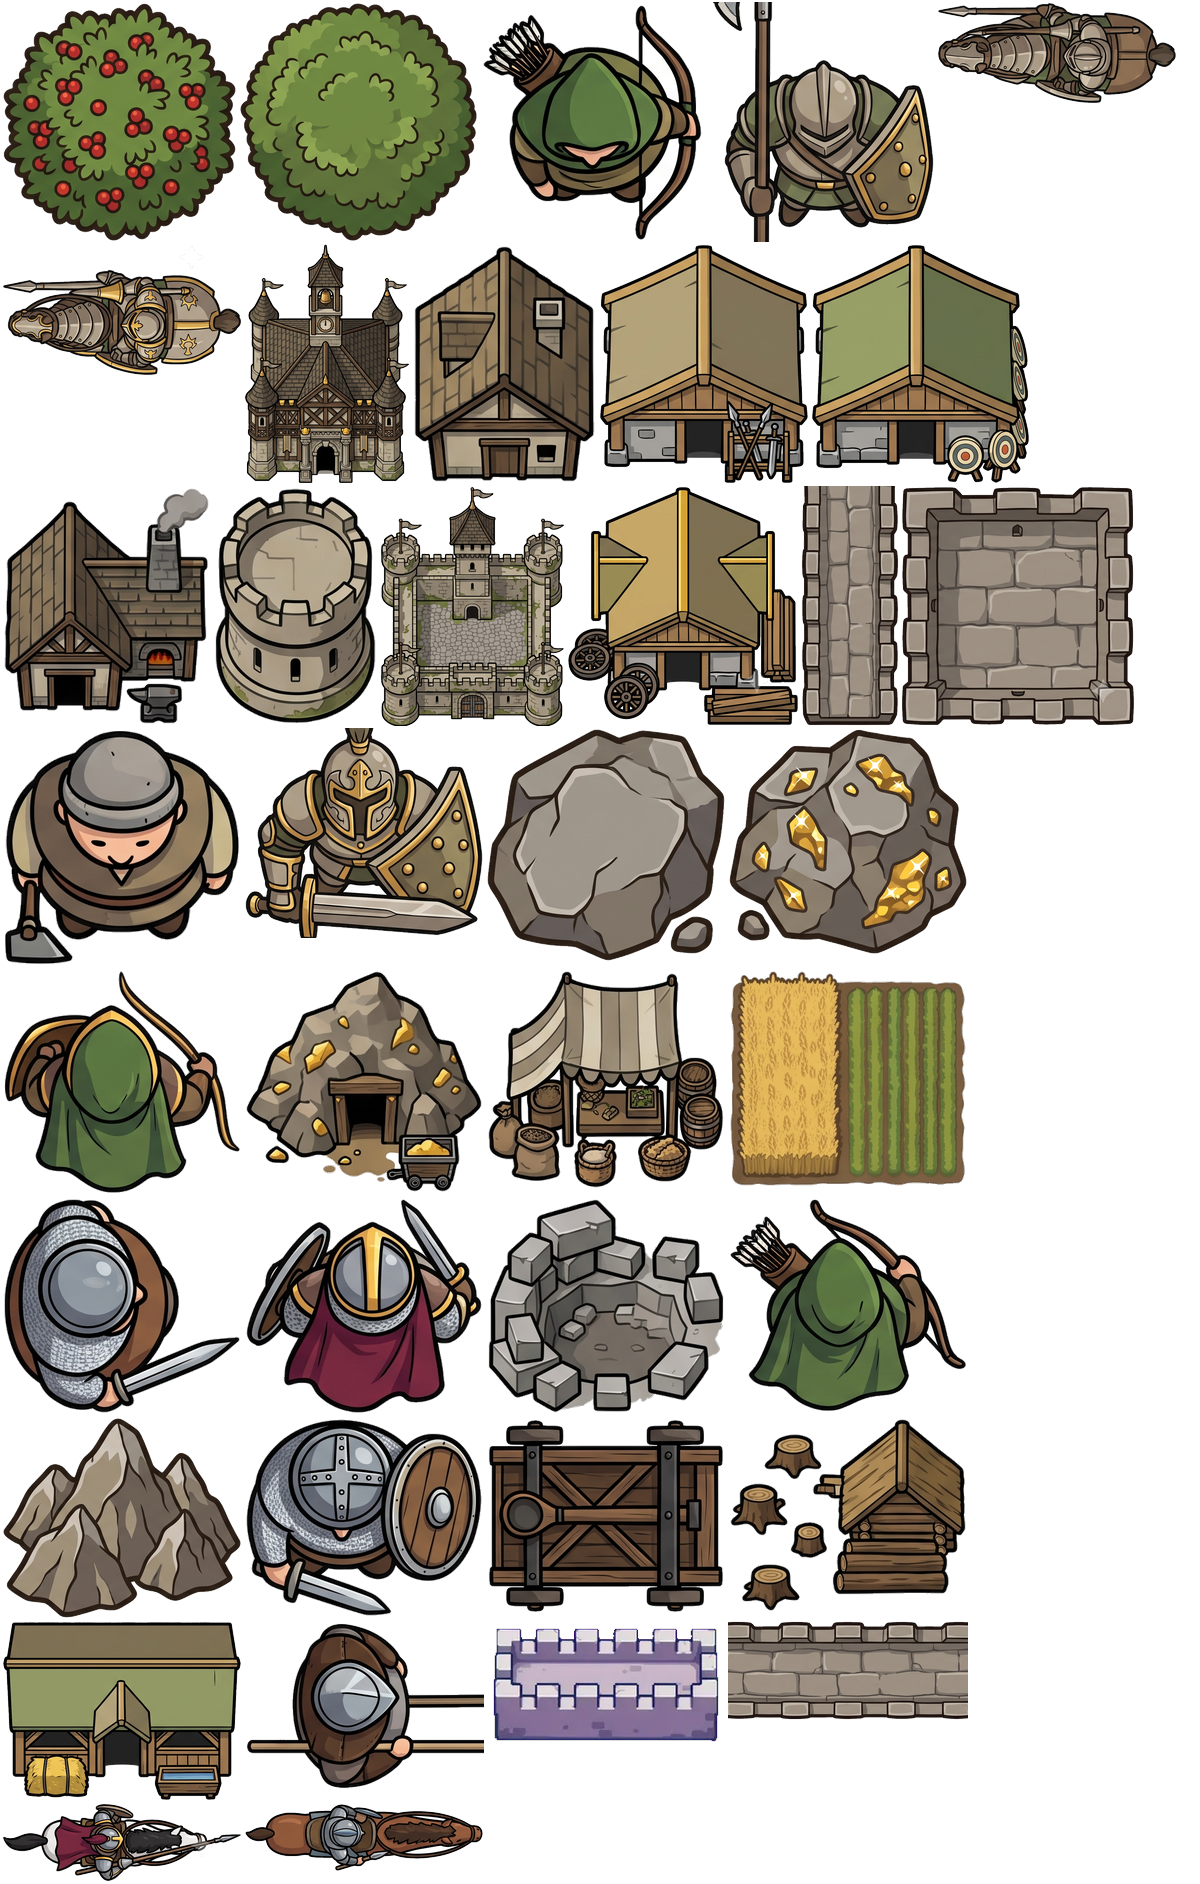
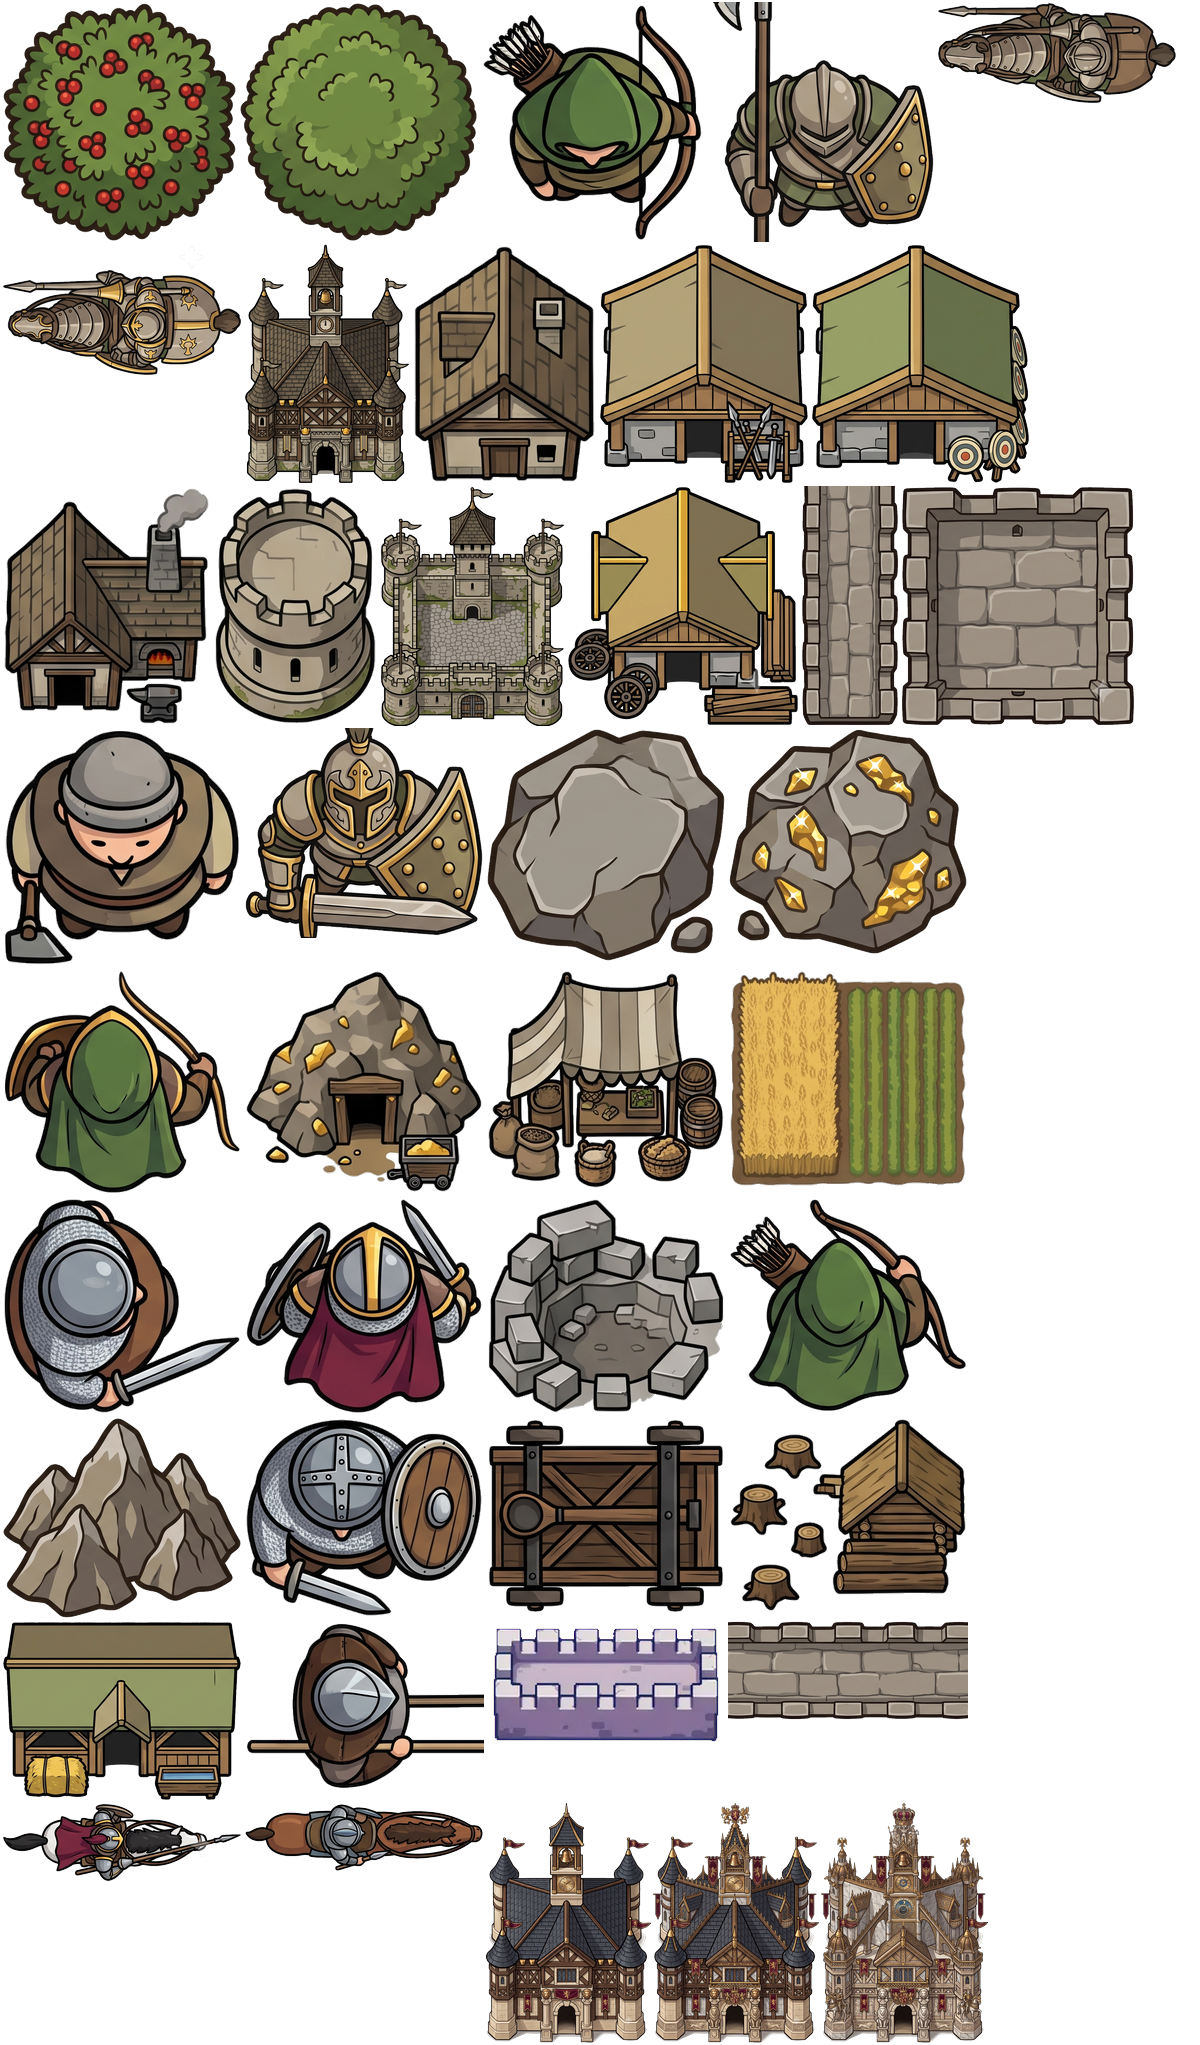
Gráficas del Centro Urbano por Era y correcciones al tutorial simulado
- El Centro Urbano cambia de gráfica según la Era del bando dueño (arte
  donado por el usuario, recortado con transparencia real y optimizado).
- Tutorial: la deselección ya no simula un toque en el mapa (mueve a la
  unidad de verdad) sino el gesto real de 2 dedos sin mover.
- Tutorial: subir de Era y mejorar unidad muestran el panel de acciones
  real con su botón, en vez de solo un toque sobre el edificio.
- Tutorial: 2 pasos nuevos (doble toque = mismo tipo, arrastre = caja de
  selección), 12 pasos en total.

diff --git a/index.html b/index.html
@@ -1095,7 +1095,8 @@ const SPRITE_FILES = [
   // solo al de tipo base, nunca a un 404 (comprobado con spr() antes de usar).
   'unit_infantry_t1','unit_infantry_t2','unit_pike_t1','unit_archer_t1',
   'unit_cavalry_t1','unit_cavalry_t2',
-  'bld_town','bld_house','bld_barracks','bld_range','bld_stable','bld_blacksmith',
+  'bld_town','bld_town_age2','bld_town_age3','bld_town_age4',
+  'bld_house','bld_barracks','bld_range','bld_stable','bld_blacksmith',
   'bld_tower','bld_castle','bld_farm','bld_goldmine','bld_quarry','bld_lumbercamp',
   'bld_market','bld_siegeworkshop',
   'bld_wall','bld_wall_h','bld_wall_v','bld_wall_tower',
@@ -4454,12 +4455,22 @@ function drawDamageFx(e, cx, cy, sz){
   }
 }
 
+// El Centro Urbano cambia de gráfica según la Era del bando dueño (arte
+// donado por el usuario): Era Inicial usa el sprite de siempre, Eras II-IV
+// tienen ficha propia. Si por lo que sea faltara el sprite de una era
+// concreta, `spr()`/`drawSprite` no lo encontrarían y caerían solos al
+// respaldo normal (rect+emoji) — no hace falta contemplarlo aquí.
+function townSpriteName(owner){
+  const age = owner==='player' ? player.age : enemy.age;
+  return age>=2 ? ('bld_town_age'+age) : 'bld_town';
+}
 function drawBuilding(e){
   if(!onScreen(e)) return;
   const s=worldToScreen(e.x,e.y); const d=BLD[e.btype];
   const sz=d.size*cam.zoom;
   const sel = e.owner==='player' && selection.includes(e.id);
-  const img = spr(d.gate ? 'bld_wall' : ('bld_'+e.btype));
+  const spriteName = d.gate ? 'bld_wall' : (e.btype==='town' ? townSpriteName(e.owner) : ('bld_'+e.btype));
+  const img = spr(spriteName);
   // FASE 9 — vista de tablero: ficha PLANA anclada en su CENTRO (cámara cenital
   // estricta), no el anclaje "abajo + estirado ×1.7" de antes (simulaba un
   // edificio visto en ¾). `box` es el tamaño visual cuadrado de la ficha;
@@ -4488,7 +4499,7 @@ function drawBuilding(e){
         roundRect(s.x-markW/2, my-markH/2, markW, markH, 3*cam.zoom); ctx.fill(); ctx.stroke();
       }
     } else {
-      drawSprite('bld_'+e.btype, s.x, s.y, box, false);
+      drawSprite(spriteName, s.x, s.y, box, false);
     }
   } else {
     // respaldo: rect + emoji. El Taller de Asedio (sin sprite propio) usa una
@@ -6029,6 +6040,22 @@ function tpBar(x,y,w,frac,color){
   ctx.fillStyle='#000a'; ctx.fillRect(x,y,w,5);
   ctx.fillStyle=color; ctx.fillRect(x,y,w*Math.max(0,Math.min(1,frac)),5);
 }
+// Panel de acciones simulado (para los pasos "subir de Era"/"mejorar unidad":
+// feedback de juego real, "no se entiende porque no se ve el menú" — sin
+// esto solo se veía el toque sobre el edificio, no dónde se pulsa de verdad).
+function tpDrawPanel(y,h){
+  ctx.fillStyle='rgba(10,11,14,.93)'; ctx.fillRect(0,y,TP_W,h);
+  ctx.strokeStyle='rgba(255,255,255,.1)'; ctx.lineWidth=1;
+  ctx.beginPath(); ctx.moveTo(0,y); ctx.lineTo(TP_W,y); ctx.stroke();
+}
+function tpDrawButton(x,y,w,h,label,active){
+  ctx.fillStyle = active ? 'rgba(255,224,140,.9)' : 'rgba(255,255,255,.12)';
+  ctx.strokeStyle = 'rgba(255,255,255,.35)'; ctx.lineWidth=1.2;
+  roundRect(x,y,w,h,6); ctx.fill(); ctx.stroke();
+  ctx.font='11px sans-serif'; ctx.fillStyle = active ? '#241b06' : '#e8e8ec';
+  ctx.textAlign='center'; ctx.textBaseline='middle';
+  ctx.fillText(label, x+w/2, y+h/2);
+}
 function tpLerpPath(kf,t){
   if(t<=kf[0].t) return {x:kf[0].x,y:kf[0].y};
   for(let i=1;i<kf.length;i++){ if(t<=kf[i].t){ const a=kf[i-1],b=kf[i],f=(t-a.t)/((b.t-a.t)||1); return {x:a.x+(b.x-a.x)*f, y:a.y+(b.y-a.y)*f}; } }
@@ -6058,28 +6085,61 @@ const TP_STEPS = [
   { text:'Toca un aldeano para seleccionarlo.', dur:2.2,
     actors:[{sprite:'unit_villager', emoji:'👷', x:120,y:110, h:34, selFrom:0.6}],
     taps:[{t:0.5,x:120,y:110}] },
+  { text:'Doble toque sobre una unidad: selecciona todas las del mismo tipo visibles en pantalla.', dur:2.6,
+    actors:[
+      {sprite:'unit_infantry', emoji:'⚔️', x:90,y:80, h:26, selFrom:0.9},
+      {sprite:'unit_infantry', emoji:'⚔️', x:172,y:126, h:26, selFrom:0.9},
+      {sprite:'unit_infantry', emoji:'⚔️', x:250,y:76, h:26, selFrom:0.9},
+      {sprite:'unit_villager', emoji:'👷', x:250,y:150, h:24},
+    ],
+    taps:[{t:0.45,x:90,y:80},{t:0.7,x:90,y:80}] },
+  { text:'Arrastra con un dedo sobre el mapa: caja de selección para varias unidades a la vez.', dur:2.6,
+    actors:[
+      {sprite:'unit_infantry', emoji:'⚔️', x:110,y:75, h:26, selFrom:1.35},
+      {sprite:'unit_infantry', emoji:'⚔️', x:175,y:110, h:26, selFrom:1.35},
+      {sprite:'unit_pike', emoji:'🔱', x:130,y:145, h:26, selFrom:1.35},
+      {sprite:'unit_villager', emoji:'👷', x:280,y:55, h:24},
+    ],
+    fx(t){
+      if(t>=0.5 && t<1.3){
+        const f=(t-0.5)/0.8, x1=80+140*f, y1=50+115*f;
+        ctx.setLineDash([4,3]); ctx.strokeStyle='rgba(255,255,255,.85)'; ctx.lineWidth=1.5;
+        ctx.strokeRect(80,50,x1-80,y1-50); ctx.setLineDash([]);
+        ctx.beginPath(); ctx.arc(x1,y1,6,0,Math.PI*2); ctx.fillStyle='rgba(255,255,255,.85)'; ctx.fill();
+      } else if(t>=1.3 && t<1.9){
+        ctx.setLineDash([4,3]); ctx.strokeStyle='rgba(255,224,140,.9)'; ctx.lineWidth=1.5;
+        ctx.strokeRect(80,50,140,115); ctx.setLineDash([]);
+      }
+    } },
   { text:'Con la unidad seleccionada, toca un recurso para que vaya a recolectarlo.', dur:2.8,
     props:[{sprite:'res_wood', emoji:'🌳', x:262,y:66, h:30}],
     actors:[{sprite:'unit_villager', emoji:'👷', h:30, selFrom:0,
       path:[{t:0,x:100,y:135},{t:0.6,x:100,y:135},{t:2.6,x:247,y:82}]}],
     taps:[{t:0.6,x:262,y:66}] },
-  { text:'Toca un lugar vacío del mapa para deseleccionar.', dur:2.0,
+  // Deseleccionar: NO es un toque en el mapa (eso MUEVE a la unidad
+  // seleccionada) — el gesto real es tocar con DOS dedos a la vez sin mover
+  // (feedback de juego real, "se movían al lugar del clic").
+  { text:'Toca la pantalla con DOS dedos a la vez, sin mover, para deseleccionar todo.', dur:2.2,
     actors:[{sprite:'unit_infantry', emoji:'⚔️', x:150,y:110, h:30, selFrom:0, selTo:0.9}],
-    taps:[{t:0.9,x:255,y:155}] },
+    fx(t){ if(t>=0.65 && t<1.15) tpTwoFingerDrag(190,150,22); } },
   { text:'Toca tu Centro Urbano y entrena una unidad nueva desde su cola.', dur:2.8,
     props:[{sprite:'bld_town', emoji:'🏛️', x:95,y:112, h:70}],
     actors:[{sprite:'unit_villager', emoji:'👷', x:155,y:145, h:26, showAt:1.9}],
     taps:[{t:0.5,x:95,y:112}],
     fx(t){ if(t>=0.6 && t<1.9) tpBar(60,152,60,(t-0.6)/1.3,'#caa46a'); } },
-  { text:'Toca el Centro Urbano y avanza a la siguiente Era.', dur:3.0,
-    props:[{sprite:'bld_town', emoji:'🏛️', x:170,y:108, h:76}],
-    taps:[{t:0.6,x:170,y:108}],
+  // Subir de Era: antes solo se veía un toque sobre el edificio, sin panel,
+  // "no se entiende porque no se ve el menú" (feedback de juego real). Ahora
+  // simula el panel de acciones apareciendo y el segundo toque sobre su
+  // botón real, y de paso muestra el Centro Urbano cambiando de gráfica al
+  // avanzar de Era (mismo arte que usa el juego de verdad).
+  { text:'Toca tu Centro Urbano: se abre su panel de acciones. Pulsa "Avanzar de Era" para subir a la siguiente Era.', dur:3.4,
+    taps:[{t:0.5,x:170,y:90},{t:1.6,x:170,y:164}],
     fx(t){
-      if(t>=0.7){ const a=Math.min(1,(t-0.7)/1.0);
-        ctx.beginPath(); ctx.arc(170,86,24+a*30,0,Math.PI*2);
+      tpSprite(t<1.7?'bld_town':'bld_town_age2', 170,90,72,'🏛️');
+      if(t>=0.6){ tpDrawPanel(138,52); tpDrawButton(115,150,110,28,'⚒️ Avanzar de Era', t>=1.55 && t<2.0); }
+      if(t>=1.7){ const a=Math.min(1,(t-1.7)/0.9);
+        ctx.beginPath(); ctx.arc(170,70,20+a*28,0,Math.PI*2);
         ctx.strokeStyle=`rgba(255,214,110,${0.7*(1-a)})`; ctx.lineWidth=3; ctx.stroke(); }
-      ctx.font='12px sans-serif'; ctx.textAlign='center'; ctx.fillStyle='#ffe9b0';
-      ctx.fillText(t<1.4 ? 'Edad Inicial' : 'Edad de las Herramientas ⬆️', 170, 172);
     } },
   { text:'Con una unidad militar seleccionada, toca al enemigo para atacarlo.', dur:2.6,
     actors:[
@@ -6096,11 +6156,16 @@ const TP_STEPS = [
       for(const [x,y,e] of [[60,55,'🌲'],[260,45,'🪨'],[150,150,'🏠'],[40,140,'💰'],[300,150,'🌳']]) ctx.fillText(e, x+shift, y);
       tpTwoFingerDrag(TP_W/2 + shift*0.25, 100, 26);
     } },
-  { text:'Investiga una mejora en el edificio de entrenamiento para potenciar tu unidad.', dur:2.8,
-    props:[{sprite:'bld_barracks', emoji:'🛡️', x:75,y:112, h:56}],
-    actors:[{sprite:'unit_infantry', emoji:'⚔️', x:195,y:122, h:30, switchAt:1.6, spriteAfter:'unit_infantry_t1'}],
-    taps:[{t:0.6,x:75,y:112}],
-    fx(t){ if(t>=1.5 && t<2.1){ const a=(t-1.5)/0.6; ctx.beginPath(); ctx.arc(195,122,14+a*18,0,Math.PI*2); ctx.strokeStyle=`rgba(255,214,110,${0.8*(1-a)})`; ctx.lineWidth=3; ctx.stroke(); } } },
+  // Mejorar unidad: mismo problema que subir de Era ("no se entiende, no se
+  // ve el menú") — se simula el panel del Cuartel con el botón de la mejora.
+  { text:'Toca tu Cuartel: se abre su panel. Pulsa la mejora para investigarla y potenciar esa unidad ya entrenada.', dur:3.2,
+    props:[{sprite:'bld_barracks', emoji:'🛡️', x:75,y:80, h:52}],
+    actors:[{sprite:'unit_infantry', emoji:'⚔️', x:230,y:130, h:30, switchAt:2.1, spriteAfter:'unit_infantry_t1'}],
+    taps:[{t:0.5,x:75,y:80},{t:1.6,x:75,y:150}],
+    fx(t){
+      if(t>=0.6){ tpDrawPanel(128,52); tpDrawButton(30,140,100,28,'⚔️ Mejorar', t>=1.55 && t<2.1); }
+      if(t>=2.1 && t<2.7){ const a=(t-2.1)/0.6; ctx.beginPath(); ctx.arc(230,130,14+a*18,0,Math.PI*2); ctx.strokeStyle=`rgba(255,214,110,${0.8*(1-a)})`; ctx.lineWidth=3; ctx.stroke(); }
+    } },
   { text:'Con tropas seleccionadas, toca un edificio enemigo para atacarlo.', dur:2.8,
     props:[{sprite:'bld_house', emoji:'🏠', x:252,y:110, h:46, team:'enemy'}],
     actors:[{sprite:'unit_infantry', emoji:'⚔️', h:28, selFrom:0,
@@ -6125,7 +6190,7 @@ function tpLoop(now){
 }
 function renderTutPreview(){
   const step = TP_STEPS[tpIdx];
-  document.getElementById('tpText').textContent = 'Paso '+(tpIdx+1)+'/10 — '+step.text;
+  document.getElementById('tpText').textContent = 'Paso '+(tpIdx+1)+'/'+TP_STEPS.length+' — '+step.text;
   document.getElementById('tpDots').innerHTML = TP_STEPS.map((_,i)=>'<span class="'+(i===tpIdx?'on':'')+'"></span>').join('');
   tpStart = performance.now();
   if(tpAnimId) cancelAnimationFrame(tpAnimId);

diff --git a/progress.md b/progress.md
@@ -2508,3 +2508,53 @@ función de origen solo corre en el host).
     corchetes + titileo visibles y sin estrellas; regresión de
     aldeanos-en-murallas (16/16, 0 atrapados) y partida simulada con IA
     Difícil, ambas sin errores de consola.
+- **Gráficas del Centro Urbano por Era y correcciones al tutorial simulado**
+  (2026-07-24): el usuario subió las 3 gráficas (Edad de las Herramientas/
+  Feudal/Imperial, `edad de las herramientas.png`/`edad feudal.png`/
+  `edad imperial.png`, 1000×1444 con fondo blanco) como `.zip` adjunto.
+  - **Procesado de imágenes**: recorte del fondo blanco por flood-fill desde
+    los bordes (deja intactos los blancos internos, igual que el pipeline de
+    `board_sprites.json` de la Fase 9B), recorte al bbox de contenido y tope
+    de 900px de lado mayor (el atlas ya las reescala a su tamaño real de uso)
+    → `bld_town_age2/3/4.png`, de ~1.7-2.3MB originales a ~0.78-1.06MB con
+    transparencia real. Aspecto (ancho/alto ≈0.69) consistente con
+    `bld_town.png` original, así que no hace falta el ajuste "contain" de
+    las unidades — el escalado por altura de siempre les sirve igual.
+  - **Cambio de gráfica por Era**: nueva `townSpriteName(owner)` — Era
+    Inicial usa `bld_town` de siempre, Eras II-IV usan `bld_town_age`+era.
+    `drawBuilding` la usa solo para `btype==='town'`; el resto de edificios
+    sin cambios. Registrado en `SPRITE_FILES` y reempaquetado el atlas
+    (41 sprites, antes 38).
+  - **Tutorial: deseleccionar corregido** — el frame simulaba un toque de 1
+    dedo en el mapa, que en el juego real MUEVE a la unidad seleccionada al
+    punto tocado (feedback de juego real: "eso hace que se muevan al lugar
+    del clic"). Ahora simula el gesto real: dos círculos blancos estáticos
+    apareciendo a la vez (toque de 2 dedos sin mover), con el texto
+    explicándolo.
+  - **Tutorial: subir de Era / mejorar unidad, más descriptivos** — antes
+    solo se veía un toque sobre el edificio sin más contexto ("no se
+    entiende porque no se ve el menú"). Nuevo `tpDrawPanel`/`tpDrawButton`
+    simulan el panel de acciones apareciendo tras el primer toque, con un
+    botón real ("⚒️ Avanzar de Era" / "⚔️ Mejorar") que recibe un SEGUNDO
+    toque simulado — reproduce el flujo real de dos pasos. El paso de subir
+    de Era, de paso, muestra el Centro Urbano cambiando de `bld_town` a
+    `bld_town_age2` con el MISMO arte que usa el juego de verdad (pedido
+    explícito: "cuando actualices las gráficas actualizas el frame de
+    tutorial que muestra la mejora de edad").
+  - **Tutorial: 2 frames nuevos** (10→12 pasos totales) — "Doble toque sobre
+    una unidad: selecciona todas las del mismo tipo visibles en pantalla"
+    (3 unidades del mismo tipo se iluminan, un aldeano cercano NO) y
+    "Arrastra con un dedo sobre el mapa: caja de selección para varias
+    unidades a la vez" (caja punteada creciendo desde el dedo, unidades
+    dentro seleccionadas, una fuera de la caja no). El contador "Paso X/N"
+    ahora usa `TP_STEPS.length` en vez de un "/10" fijo (se había quedado
+    desactualizado en el primer intento de esta misma tanda).
+  - Verificado headless: recorrida la vista previa completa (12 pasos) sin
+    errores de consola, con capturas de cada paso confirmando visualmente
+    el doble toque (3 seleccionadas, 1 sin seleccionar), el arrastre de
+    caja, el gesto de 2 dedos para deseleccionar y el panel con botón para
+    subir de Era/mejorar; `townSpriteName('player')` confirmado devolviendo
+    `bld_town`/`bld_town_age2`/`bld_town_age3`/`bld_town_age4` según la Era;
+    captura del Centro Urbano en Edad Feudal mostrando la gráfica nueva
+    dentro de su huella de 4×4 casillas; regresión de aldeanos-en-murallas
+    (16/16, 0 atrapados) y partida simulada con IA Difícil sin errores.

diff --git a/CLAUDE.md b/CLAUDE.md
@@ -1162,11 +1162,23 @@ hojas fuente en `assets/_raw/`. Mantener el **respaldo de emoji** en el motor.
     para: seleccionar unidad, llevarla a hacer una acción, deseleccionar,
     crear unidad, subir de Era, atacar unidad, moverse por el mapa, mejorar
     unidad, atacar edificio y construir torre/muralla defensiva.
-  - **Pendiente**: el Centro Urbano cambiando de gráfica por Era (imágenes
-    que el usuario pegó en el chat) no se pudo integrar — no hay forma de
-    extraer una imagen pegada en la conversación a un archivo; falta que el
-    usuario la suba como archivo para procesarla e integrarla.
   - Verificado headless: los 10 pasos del tutorial recorridos sin errores;
     unidades de tier a tamaño consistente (captura); Centro Urbano a
     160×160px exactos con corchetes+titileo y sin estrellas; regresión de
     aldeanos-en-murallas y partida simulada con IA Difícil sin errores.
+- **Gráficas del Centro Urbano por Era y correcciones al tutorial simulado**
+  (2026-07-24): el usuario subió las 3 gráficas por Era como `.zip`.
+  - El Centro Urbano cambia de gráfica según la Era del bando dueño
+    (`townSpriteName`): Era Inicial usa el sprite de siempre, Eras II-IV
+    tienen ficha propia (recortadas/con transparencia real, optimizadas).
+  - **Tutorial corregido**: deseleccionar ya no simula un toque en el mapa
+    (eso mueve a la unidad de verdad) sino el gesto real de 2 dedos sin
+    mover; subir de Era y mejorar unidad ahora muestran el panel de
+    acciones apareciendo y un segundo toque sobre su botón real, con texto
+    más descriptivo; el paso de subir de Era muestra el Centro Urbano
+    cambiando de gráfica con el mismo arte del juego. Se agregaron 2 pasos
+    nuevos (doble toque = mismo tipo, arrastre = caja de selección), 12 en
+    total.
+  - Verificado headless: los 12 pasos recorridos sin errores, capturas de
+    cada gesto nuevo/corregido, `townSpriteName` confirmado por Era, y
+    regresión completa sin errores de consola.